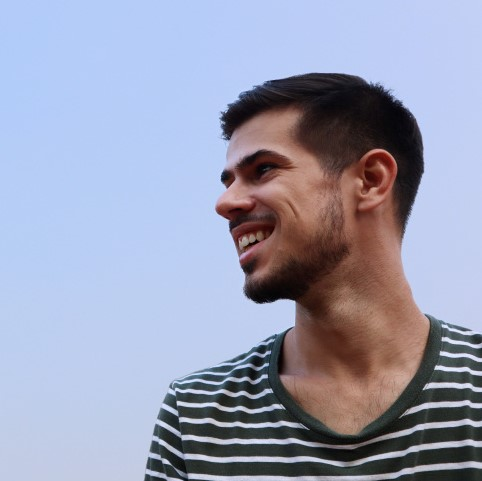
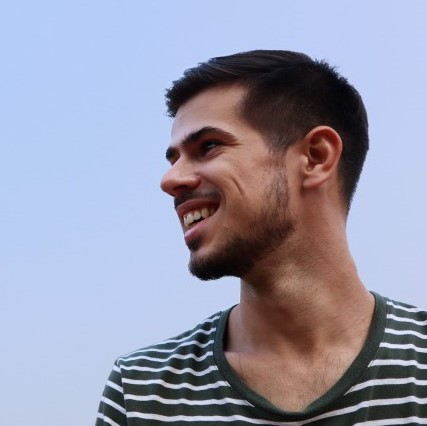
style adjustments to match new fonts and colors

diff --git a/src/controllers/experience.js b/src/controllers/experience.js
@@ -126,7 +126,7 @@ export default class ExperienceController extends AbstractLoaderController {
       experience = this.content.element.querySelector(`[data-company-id="${experience}"]`)
     }
     const experienceBcr = experience.getBoundingClientRect()
-    const offset = experienceBcr.x + (experienceBcr.width / 2) - (window.innerWidth / 2)
+    const offset = experienceBcr.left + (experienceBcr.width / 2) - (window.innerWidth / 2)
     const x = this.content.$transform.x
     if (animate) {
       animateValue(200, x, x - offset, this.setExperiencesPosition.bind(this))
@@ -236,8 +236,8 @@ export class ScrollableContainer {
   computeElementPosition (element) {
     const bcr = element.getBoundingClientRect()
     return {
-      left: bcr.x * 100 / window.innerWidth,
-      right: (bcr.x + bcr.width) * 100 / window.innerWidth
+      left: bcr.left * 100 / window.innerWidth,
+      right: (bcr.left + bcr.width) * 100 / window.innerWidth
     }
   }
 
@@ -245,7 +245,8 @@ export class ScrollableContainer {
     const x = this.$transform.x
     this.element.style.transform = `translateX(${x}px)`
     if (this.applyTransition) {
-      for (let element of this.element.children) {
+      for (let i = 0; i < this.element.childElementCount; i++) {
+        let element = this.element.children.item(i)
         if (element.getAttribute('nm-ignore-animation') === null) {
           this.applyTransition(element, this.computeElementPosition(element))
         }

diff --git a/src/partials/about.scss b/src/partials/about.scss
@@ -38,48 +38,31 @@
   .avatar {
     border-radius: 50%;
     overflow: hidden;
-    border: 4px solid #ccc;
+    box-shadow: 0 0.5rem 1rem rgba(0,0,0,0.25);
     margin: 0 auto;
-    box-sizing: border-box;
     
     > img {
       height: 100%;
     }
     
     @include mobile {
-      $size: 8rem;
+      $size: 50vw;
       height: $size;
       width: $size;
     }
     
-    @include tablet {
-      $size: 10rem;
+    @include min-tablet {
+      $size: 12rem;
       height: $size;
       width: $size;
-      border-width: 6px;
-    }
-    
-    @include min-desktop {
-      $size: 11rem;
-      height: $size;
-      width: $size;
-      border-width: 6px;
     }
   }
 
   &__name {
-    @include decoration-font;
-    font-weight: 500;
-    margin: 1rem 0;
+    margin: 2rem 0;
     text-align: center;
-    
-    @include mobile {
-      font-size: 1.25rem;
-    }
-    
-    @include min-tablet {
-      font-size: 1.5rem;
-    }
+    font-size: 1.5rem;
+    font-weight: 700;
   }
 
   .brief {

diff --git a/src/partials/services.scss b/src/partials/services.scss
@@ -66,10 +66,8 @@
   }
 
   &__title {
-    @include decoration-font(1.25rem);
-    color: #fff;
-    background-color: $secondary-color;
-    border-radius: 1.5rem;
+    background-color: #f2f2f2;
+    font-weight: 700;
     padding: 0.5rem 1.5rem;
     margin: 0 0 1rem;
   }
@@ -133,7 +131,7 @@
   position: relative;
 
   &__toggle {
-    @include decoration-font;
+    cursor: pointer;
     display: block;
     margin: 1em auto;
     background: none;
@@ -157,7 +155,6 @@
     text-align: center;
     color: $label-text-color;
     font-size: 0.75rem;
-    font-weight: normal;
     margin: 1.5rem 0 0;
 
     @include min-desktop {

diff --git a/src/styles/typography.scss b/src/styles/typography.scss
@@ -4,8 +4,7 @@
 @import url("https://fonts.googleapis.com/css?family=Poppins:300|Oxygen:300,700");
 
 h1,
-h2,
-h3 {
+h2 {
   @include decoration-font;
 }
 
@@ -16,18 +15,11 @@ h1 {
 }
 
 h2 {
-  font-size: 35px;
+  font-size: 2rem;
   font-weight: 500;
   letter-spacing: -1px;
   text-align: center;
   margin: 3rem 0;
-}
-
-h3 {
-  text-transform: uppercase;
-  color: $complimentary-text-color;
-  font-weight: normal;
-  font-size: 20px;
 }
 
 a {

diff --git a/src/partials/experience.scss b/src/partials/experience.scss
@@ -122,7 +122,7 @@
   }
 
   &__job-title {
-    font-weight: 500;
+    font-weight: 700;
 
     @include min-tablet {
       font-size: 1.25rem;
@@ -201,6 +201,7 @@
   &__label {
     @include decoration-font;
     color: $label-text-color;
+    font-weight: 700;
     text-align: center;
 
     @include mobile {

diff --git a/src/styles/helpers/_vars.scss b/src/styles/helpers/_vars.scss
@@ -1,9 +1,9 @@
 $shadow-color: rgba(0, 0, 0, 0.1);
 
 $complimentary-text-color: #808080;
-$label-text-color: #b2b2b2;
+$label-text-color: #737373;
 $border-color-gray: #d9d9d9;
-$text-color: #333333;
+$text-color: #1a1a1a;
 
 $blue: #1b72c3;
 $blue--light: #61a8e9;

diff --git a/src/styles/helpers/_layout.scss b/src/styles/helpers/_layout.scss
@@ -2,6 +2,7 @@
 
 @mixin panel ($p-shadow-color: $shadow-color) {
   box-sizing: border-box;
+  border-radius: 0.5rem;
   
   @include mobile {
     box-shadow: 0 2px 1em $p-shadow-color;

diff --git a/src/partials/contact.scss b/src/partials/contact.scss
@@ -53,7 +53,7 @@
     }
 
     @include min-tablet {
-      margin-top: 4rem;
+      margin: 4rem auto auto;
       padding: 3rem;
       max-width: $panel__max-width--tablet;
     }

diff --git a/src/partials/testimonials.scss b/src/partials/testimonials.scss
@@ -43,7 +43,7 @@
     }
     
     @include min-tablet {
-      font-size: 1.25rem;
+      font-size: 1.1rem;
       line-height: 1.5rem;
     }
 
